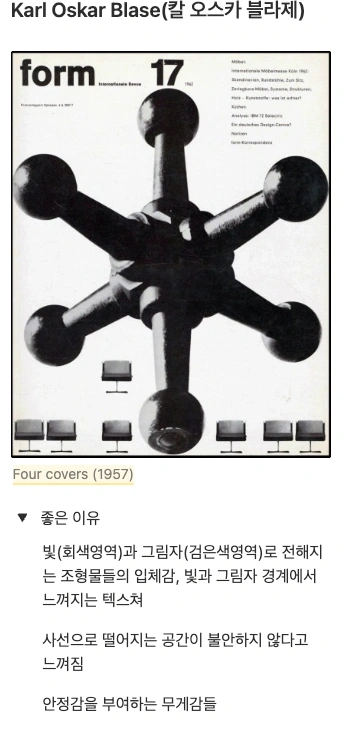
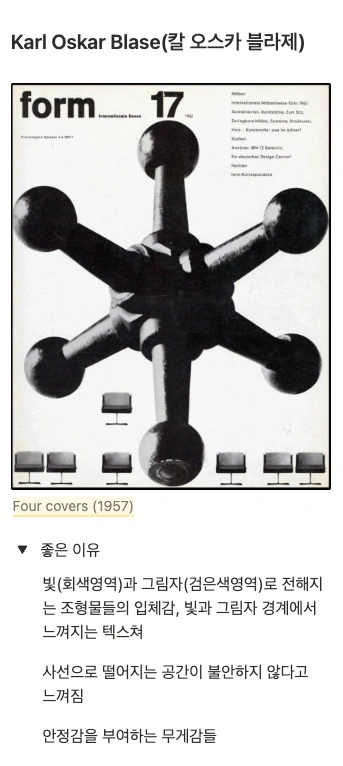
Update study.html: 4-column layout for attached_1~4 with visual poster size equivalence (2.05fr:2.05fr:2.05fr:1fr) and clean top margins

Changed region(s): [[0.0292, 0.0, 0.9621, 0.9891], [0.5539, 0.9292, 0.6414, 0.9891]]

diff --git a/study.html b/study.html
@@ -259,6 +259,36 @@
             width: 100%;
         }
 
+        /* 4-column workshop grid for attached_1~4 with visual poster equivalence */
+        .workshop-grid-4col {
+            display: grid;
+            grid-template-columns: 2.05fr 2.05fr 2.05fr 1fr;
+            gap: 24px;
+            align-items: start;
+            width: 100%;
+        }
+
+        .workshop-grid-4col img {
+            margin-top: 0 !important;
+            display: block;
+            width: 100%;
+            height: auto;
+        }
+
+        @media (max-width: 900px) {
+            .workshop-grid-4col {
+                grid-template-columns: repeat(2, 1fr);
+                gap: 20px;
+            }
+        }
+
+        @media (max-width: 500px) {
+            .workshop-grid-4col {
+                grid-template-columns: 1fr;
+                gap: 16px;
+            }
+        }
+
         @media (max-width: 768px) {
             .workshop-grid {
                 grid-template-columns: 1fr;
@@ -377,15 +407,12 @@
                         </div>
 
                         <!-- Row 2A: 류이치 야마시로 & 가메쿠라 유사쿠 1 (2열 수평 정렬, 가독성/포스터 크기 균일화) -->
-                        <div class="workshop-grid" style="margin-top: 40px; align-items: start;">
+                        <!-- Row 2: 류이치 야마시로, 가메쿠라 유사쿠 1, 가메쿠라 유사쿠 2, 칼 오스카 블라제 (4열 수평 정렬, 상단 여백 추가 및 포스터 크기 균일화) -->
+                        <div class="workshop-grid-4col" style="margin-top: 40px; align-items: start;">
                             <img src="study/sangjun_workshop_attached_1.webp" alt="류이치 야마시로" class="scroll-anim"
                                 style="width: 100%; height: auto; display: block;">
                             <img src="study/sangjun_workshop_attached_2.webp" alt="가메쿠라 유사쿠 1" class="scroll-anim"
                                 style="width: 100%; height: auto; display: block;">
-                        </div>
-
-                        <!-- Row 2B: 가메쿠라 유사쿠 2 & 칼 오스카 블라제 (2열 수평 정렬, 가독성/포스터 크기 균일화) -->
-                        <div class="workshop-grid" style="margin-top: 40px; align-items: start;">
                             <img src="study/sangjun_workshop_attached_3.webp" alt="가메쿠라 유사쿠 2" class="scroll-anim"
                                 style="width: 100%; height: auto; display: block;">
                             <img src="study/sangjun_workshop_attached_4.webp" alt="칼 오스카 블라제" class="scroll-anim"
@@ -436,7 +463,7 @@
 
     <div class="sidebar-overlay" id="sidebarOverlay"></div>
 
-    <script src="script.js?v=20260810-7"></script>
+    <script src="script.js?v=20260810-8"></script>
 </body>
 
 </html>

diff --git a/project.html b/project.html
@@ -2075,7 +2075,7 @@
 
     <div class="sidebar-overlay" id="sidebarOverlay"></div>
 
-    <script src="script.js?v=20260810-6"></script>
+    <script src="script.js?v=20260810-8"></script>
 </body>
 
 </html>

diff --git a/index.html b/index.html
@@ -492,7 +492,7 @@
         </div>
     </div>
 
-    <script src="script.js?v=20260810-6"></script>
+    <script src="script.js?v=20260810-8"></script>
 </body>
 
 </html>
